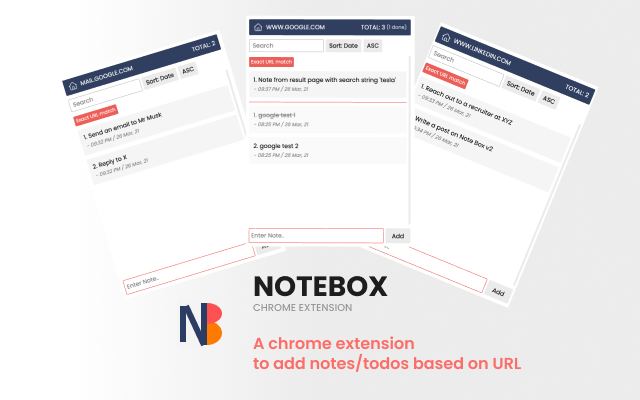
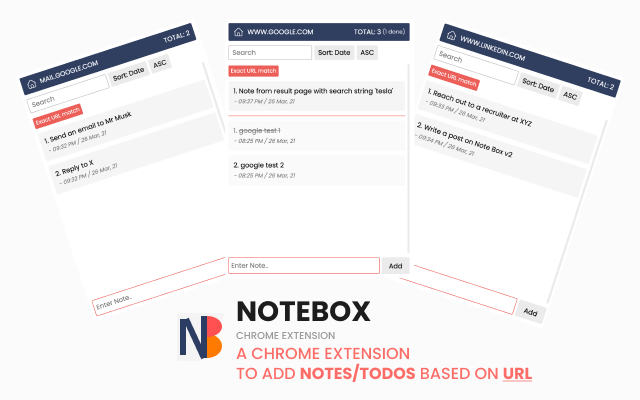
Minor

diff --git a/readme.md b/readme.md
@@ -17,7 +17,7 @@
 
 ### Features
 
-- [x] View/Save notes based on domain
+- [x] View/Save notes based on domain & URL
 - [x] Mark item as **done**
 - [x] Export notes as JSON
 - [x] Filters
@@ -30,3 +30,9 @@
 
 - [ ] Show pending tasks badge
 - [ ] Sentry
+- [ ] Open note link
+
+## Credits
+
+- Font Family - [Poppins](https://fonts.google.com/specimen/Poppins?preview.text_type=custom)
+- View/Save notes based on URL - Karan Aiyappa for the idea
